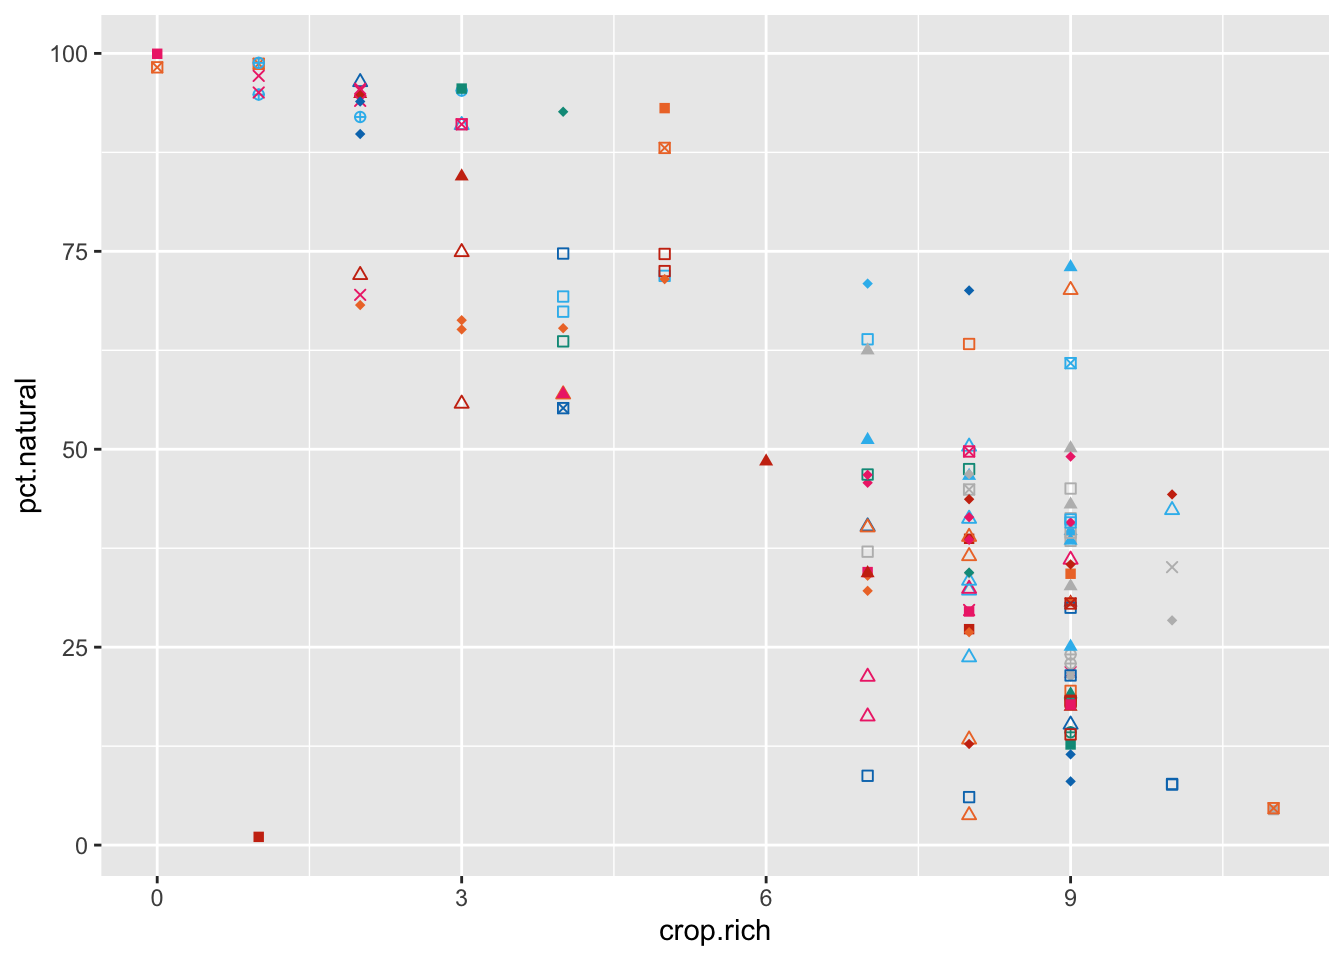
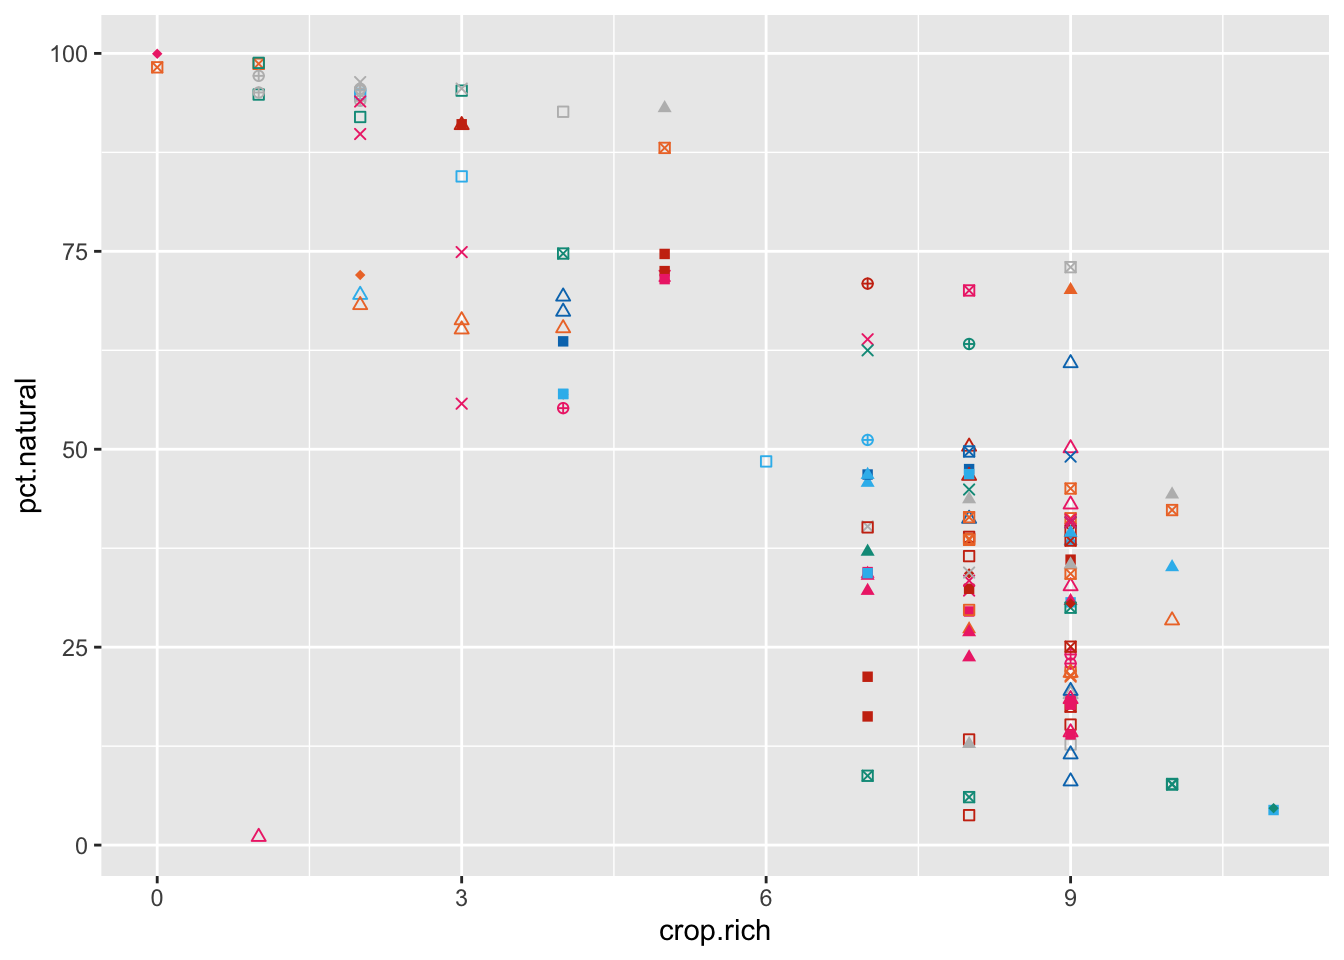
add a subheading

diff --git a/docs/continuity.html b/docs/continuity.html
@@ -139,7 +139,10 @@ ul.task-list li input[type="checkbox"] {
   <li><a href="#comparing-stability-and-shannon-diversity." id="toc-comparing-stability-and-shannon-diversity." class="nav-link" data-scroll-target="#comparing-stability-and-shannon-diversity.">Comparing stability and Shannon diversity.</a></li>
   <li><a href="#the-relationship-between-natural-and-crop-shannon-diversity-crop-richness" id="toc-the-relationship-between-natural-and-crop-shannon-diversity-crop-richness" class="nav-link" data-scroll-target="#the-relationship-between-natural-and-crop-shannon-diversity-crop-richness">The relationship between % natural and crop shannon diversity / crop richness</a></li>
   </ul></li>
-  <li><a href="#exploratory-models" id="toc-exploratory-models" class="nav-link" data-scroll-target="#exploratory-models">Exploratory models</a></li>
+  <li><a href="#exploratory-models" id="toc-exploratory-models" class="nav-link" data-scroll-target="#exploratory-models">Exploratory models</a>
+  <ul class="collapse">
+  <li><a href="#three-way-interactio-model-predictions" id="toc-three-way-interactio-model-predictions" class="nav-link" data-scroll-target="#three-way-interactio-model-predictions">Three-way interactio model predictions</a></li>
+  </ul></li>
   <li><a href="#other-stats" id="toc-other-stats" class="nav-link" data-scroll-target="#other-stats">Other stats</a>
   <ul class="collapse">
   <li><a href="#mean-total-flowers" id="toc-mean-total-flowers" class="nav-link" data-scroll-target="#mean-total-flowers">Mean total flowers</a></li>
@@ -355,7 +358,9 @@ ul.task-list li input[type="checkbox"] {
  </code></pre>
 </div>
 </div>
-<p>These changes seem to be mainly driven by a strong interaction between % natural and crop richness for the Guezen &amp; Forrest (2021) study. Slopes mostly aren’t significantly different from zero across these variables’ interactions for the other two studies.</p>
+<section id="three-way-interactio-model-predictions" class="level3">
+<h3 class="anchored" data-anchor-id="three-way-interactio-model-predictions">Three-way interactio model predictions</h3>
+<p>Significant interactions between the variables seem to be mainly driven by a strong interaction between % natural and crop richness for the Guezen &amp; Forrest (2021) study. Slopes mostly aren’t significantly different from zero across these variables’ interactions for the other two studies.</p>
 <div class="cell">
 <div class="cell-output-display">
 <div>
@@ -375,6 +380,7 @@ ul.task-list li input[type="checkbox"] {
 </div>
 </div>
 </div>
+</section>
 </section>
 <section id="other-stats" class="level2">
 <h2 class="anchored" data-anchor-id="other-stats">Other stats</h2>
